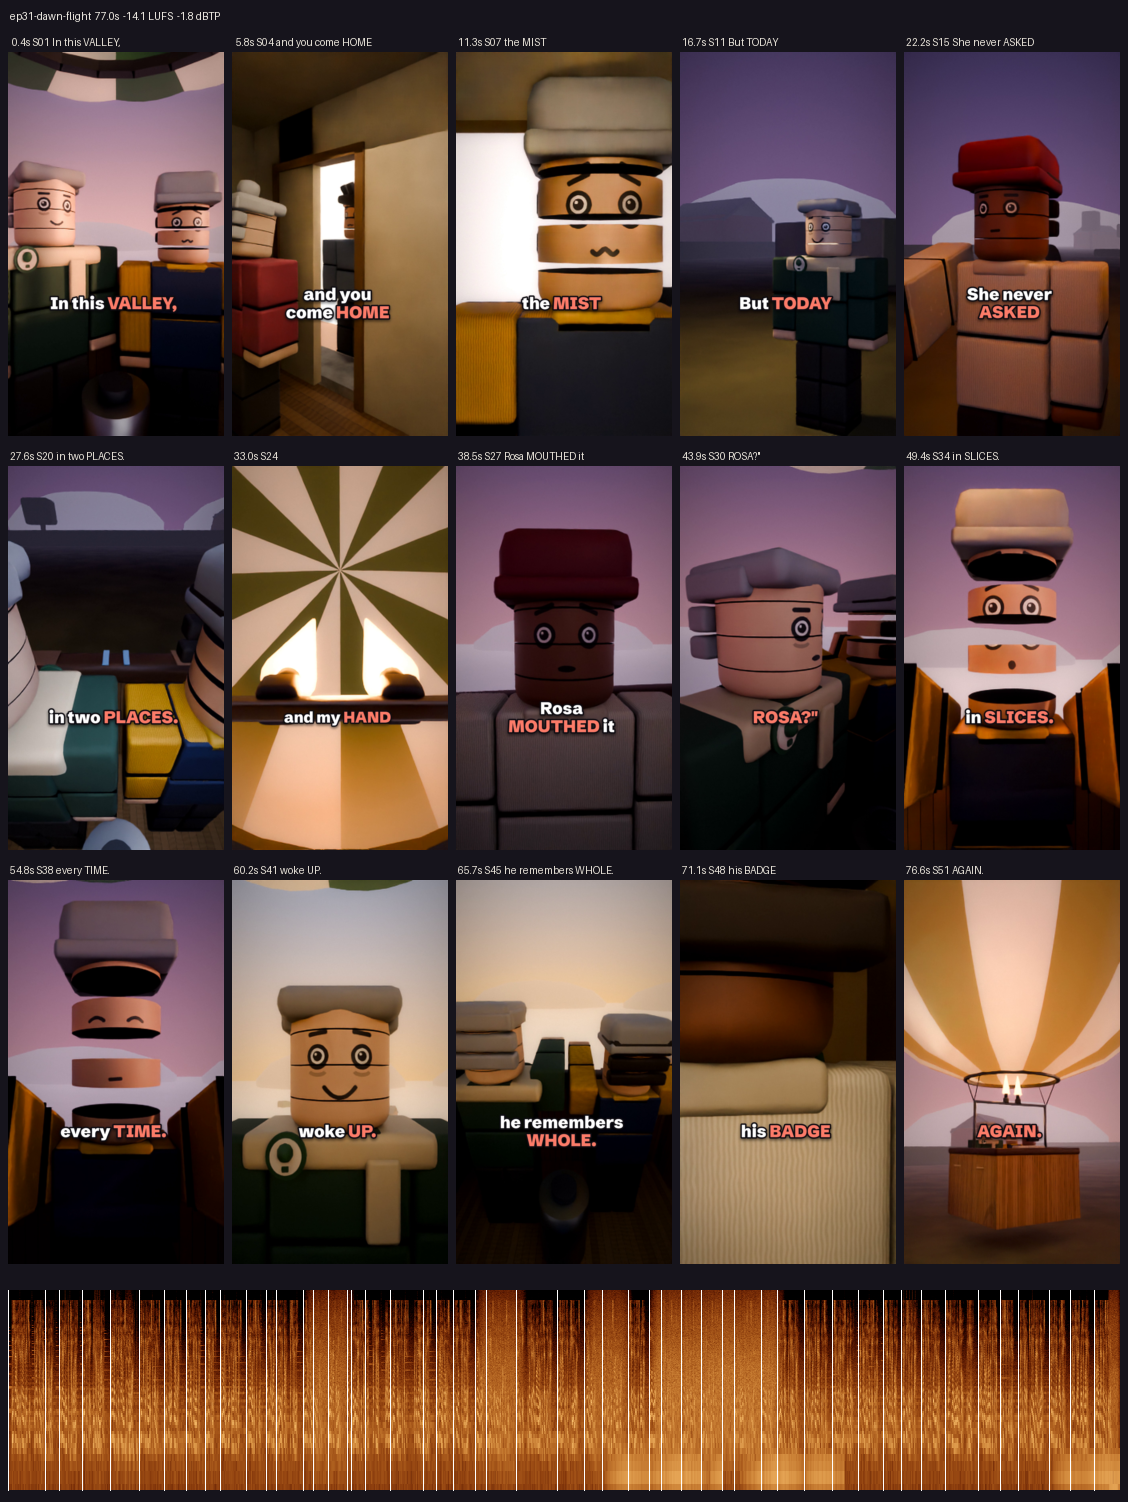
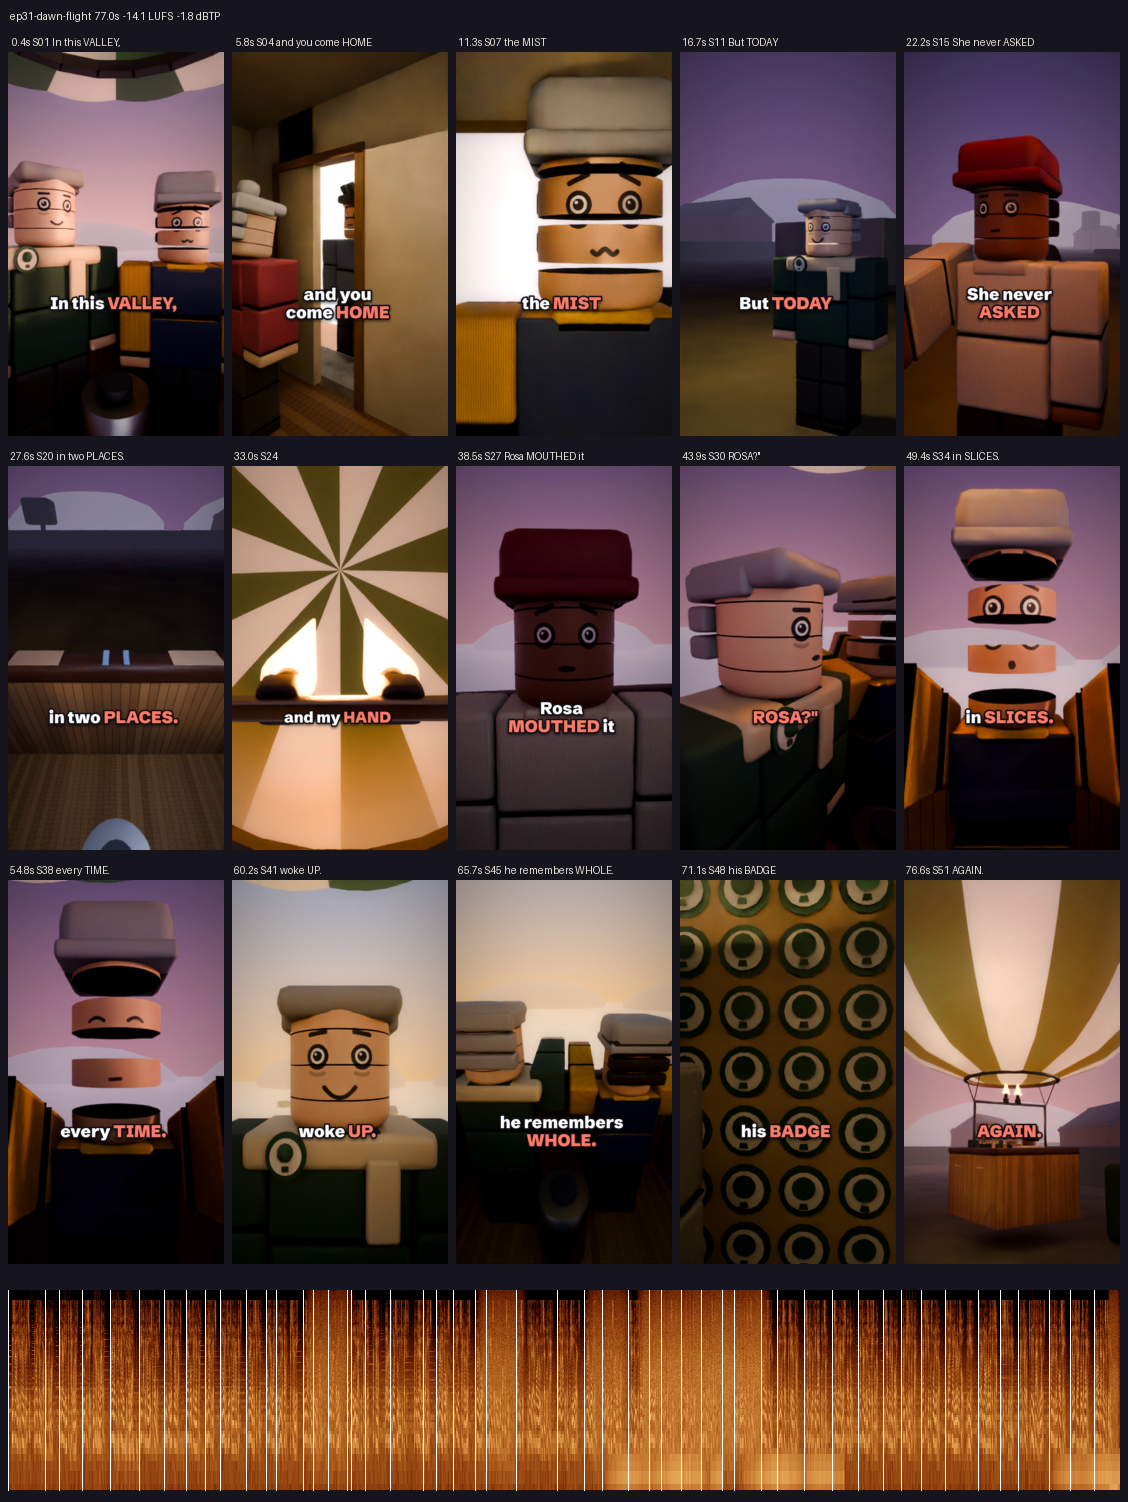
WIP ep31-dawn-flight: rescue round 5 (rim, badges, hedges)
Claude-Session: https://claude.ai/code/session_019n1tKFeMWK9CdVfVUvkVDN

diff --git a/stories/ep31-dawn-flight/set.py b/stories/ep31-dawn-flight/set.py
@@ -351,7 +351,7 @@ def new_materials(kit, ctx):
     M["wicker"] = kit.bricks("#b48a55", "#9a7243", "#3f2f1a", scale=7.0, name="wicker", rough=0.9, row=0.25, width=0.5,
                              grime_amt=0.25)
     M["leather"] = kit.plastic("#4a2e1e", 0.5, name="leather rim", spec=0.35)
-    M["worn"] = kit.plastic("#7a5a42", 0.55, name="worn leather", spec=0.3)
+    M["worn"] = kit.plastic("#b99877", 0.55, name="worn leather", spec=0.3)
     M["floor"] = kit.planks("#a07a48", "#80602f", scale=3.5, axis="Y", name="basket floor")
     M["steel"] = kit.metal("#6c7075", 0.4, name="steel")
     M["steel_dark"] = kit.plastic("#2a2d31", 0.5, name="steel dark")
@@ -412,6 +412,16 @@ def disc_mesh(kit, name, centres, r, y, mat, parent, n=14):
     return kit.mesh_obj(name, verts, fcs, mat, parent)
 
 
+def trap_mesh(kit, name, centres, hw_top, hw_bot, h, y, mat, parent):
+    """Many small flat trapezoids (the basket of the balloon glyph) facing -y in one object."""
+    verts, fcs = [], []
+    for (cx, cz) in centres:
+        b = len(verts)
+        verts += [(cx - hw_top, y, cz + h / 2), (cx + hw_top, y, cz + h / 2), (cx + hw_bot, y, cz - h / 2), (cx - hw_bot, y, cz - h / 2)]
+        fcs.append((b + 3, b + 2, b + 1, b))
+    return kit.mesh_obj(name, verts, fcs, mat, parent)
+
+
 def build_basket(kit, ctx, M):
     Vg = ctx["V"]
     kit.box("floor", (2 * HX + 0.02, 2 * HX + 0.02, 0.08), (0, 0, -0.04), M["floor"], Vg)
@@ -448,7 +458,7 @@ def build_basket(kit, ctx, M):
     # the two worn patches on the north rim, exactly under two hands, and the lore tally between them
     top = RIM_TOP + 0.0
     for i, px in enumerate(PATCH_X):
-        kit.box(f"worn{i}", (0.3, 0.17, 0.006), (px, RIM_Y, top + 0.004), M["worn"], Vg)
+        kit.box(f"worn{i}", (0.34, 0.17, 0.006), (px, RIM_Y, top + 0.004), M["worn"], Vg)
     for k, px in enumerate((-0.07, 0.07)):
         kit.box(f"tally{k}", (0.04, 0.17, 0.008), (px, RIM_Y, top + 0.005), M["tally"], Vg)
 
@@ -487,6 +497,19 @@ def build_landscape(kit, ctx, M):
         r = 330 + 40 * kit.hash01(k, 3)
         h = kit.sphere(f"hill{k}", 1.0, (r * math.cos(a), r * math.sin(a), 0), M["hill"], L, seg=14)
         h.scale = (95 + 30 * kit.hash01(k, 4), 70 + 30 * kit.hash01(k, 5), 42 + 12 * kit.hash01(k, 6))
+    # the near fields S23 sinks past: two barns and hedge lines that poke out of the mist (shown in that one shot only)
+    sk = kit.empty("sinkprops", (0, 0, 0), L)
+    ctx["sink"] = sk
+    for i, (p, rot) in enumerate([((27, -10), 25), ((44, 10), -20), ((20, 14), 70)]):
+        b = kit.empty(f"sbarn{i}", (p[0], p[1], 0), sk)
+        b.rotation_euler = (0, 0, math.radians(rot))
+        kit.box(f"sbarnw{i}", (10, 6.5, 4.2), (0, 0, 2.1), M["barn"], b, bevel=0.08)
+        for sy in (-1, 1):
+            kit.box(f"sbarnr{i}{sy}", (10.6, 4.1, 0.3), (0, sy * 1.55, 4.9), M["barn_roof"], b,
+                    rot=(sy * math.radians(-32), 0, 0), bevel=0.05)
+    for i, (p, rot, ln, h) in enumerate([((14, -22), 0, 30, 2.2), ((14, -2), 0, 24, 2.0), ((12, 8), 90, 24, 2.4),
+                                         ((38, -8), 90, 30, 2.1), ((26, -30), 0, 36, 2.3)]):
+        kit.box(f"shedge{i}", (ln, 1.3, h), (p[0], p[1], h / 2), M["hedge"], sk, rot=(0, 0, math.radians(rot)), bevel=0.2)
     # the launch field: a lamp on a pole, a trailer whose back doors stand open, a cold-air fan
     kit.cyl("lamppole", 0.07, 3.4, (-4.6, -3.6, 1.7), M["steel"], L, n=10)
     kit.box("lamphead", (0.5, 0.3, 0.14), (-4.6, -3.6, 3.45), M["steel_dark"], L, bevel=0.03)
@@ -567,28 +590,31 @@ def build_montage(kit, ctx, M):
     # --- the inside of Rosa's trailer: the back wall (y = 1.35) covered in identical balloon badges
     Z = kit.empty("Ztrailer", tuple(ZONES["trailer"]))
     ctx["T"] = Z
-    kit.box("t_floor", (2.3, 3.8, 0.1), (0, -0.55, -0.05), M["t_floor"], Z)
-    kit.box("t_ceil", (2.3, 3.8, 0.1), (0, -0.55, 2.55), M["t_wall"], Z)
-    kit.box("t_wallB", (2.3, 0.1, 2.6), (0, 1.4, 1.25), M["t_wall"], Z)
+    kit.box("t_floor", (4.3, 3.8, 0.1), (0, -0.55, -0.05), M["t_floor"], Z)
+    kit.box("t_ceil", (4.3, 3.8, 0.1), (0, -0.55, 2.55), M["t_wall"], Z)
+    kit.box("t_wallB", (4.3, 0.1, 2.6), (0, 1.4, 1.25), M["t_wall"], Z)
     for sx in (-1, 1):
-        kit.box(f"t_wallS{sx}", (0.1, 3.8, 2.6), (sx * 1.2, -0.55, 1.25), M["t_wall"], Z)
-    kit.box("t_wallF", (2.3, 0.1, 2.6), (0, -2.5, 1.25), M["t_wall"], Z)
+        kit.box(f"t_wallS{sx}", (0.1, 3.8, 2.6), (sx * 2.2, -0.55, 1.25), M["t_wall"], Z)
+    kit.box("t_wallF", (4.3, 0.1, 2.6), (0, -2.5, 1.25), M["t_wall"], Z)
     kit.cyl("t_cord", 0.008, 0.5, (0, 0.0, 2.3), M["steel_dark"], Z, n=6)
     kit.sphere("t_bulb", 0.07, (0, 0.0, 2.02), M["t_lamp"], Z, seg=10)
     cs = []
-    for j in range(1, 8):
-        for i in range(7):
-            if (i, j) == (6, 4):          # the empty cell where today's badge goes
+    for j in range(1, 13):
+        for i in range(21):
+            if (i, j) == (14, 6):         # the empty cell where today's badge goes (x 0.9, z 1.22)
                 continue
-            cs.append((-0.9 + i * 0.3, 0.02 + j * 0.3))
+            cs.append((-1.9 + i * 0.2, 0.02 + j * 0.2))
     yb = 1.35 - 0.012                      # each layer 1 cm proud of the one below, so nothing shares a plane
-    disc_mesh(kit, "badges_g", cs, 0.124, yb, M["b_green"], Z)
-    disc_mesh(kit, "badges_c", cs, 0.092, yb - 0.012, M["b_cream"], Z)
-    disc_mesh(kit, "badges_b", [(x, z + 0.02) for x, z in cs], 0.04, yb - 0.024, M["b_green"], Z, n=10)
-    new = [(0.9, 0.02 + 4 * 0.3)]
-    ctx["badge_new"] = [disc_mesh(kit, "badge_ng", new, 0.124, yb, M["b_green"], Z),
-                        disc_mesh(kit, "badge_nc", new, 0.092, yb - 0.012, M["b_cream"], Z),
-                        disc_mesh(kit, "badge_nb", [(0.9, new[0][1] + 0.02)], 0.04, yb - 0.024, M["b_green"], Z, n=10)]
+
+    def glyph(tag, cl):
+        # the same glyph as Dad's badge: green rim, cream face, a green balloon over a small basket
+        return [disc_mesh(kit, f"{tag}_g", cl, 0.088, yb, M["b_green"], Z),
+                disc_mesh(kit, f"{tag}_c", cl, 0.066, yb - 0.012, M["b_cream"], Z),
+                disc_mesh(kit, f"{tag}_b", [(x, z + 0.014) for x, z in cl], 0.04, yb - 0.024, M["b_green"], Z, n=12),
+                trap_mesh(kit, f"{tag}_k", [(x, z - 0.045) for x, z in cl], 0.012, 0.016, 0.02, yb - 0.03, M["b_green"], Z)]
+
+    glyph("badges", cs)
+    ctx["badge_new"] = glyph("badge_n", [(0.9, 1.22)])
 
 
 def build(kit, story, tl):
@@ -689,6 +715,7 @@ def animate(kit, story, tl, t, ctx):
     ang = math.radians(-88.0 * (1 - up))
     ctx["E"].matrix_basis = Matrix.Translation(PIVOT) @ Matrix.Rotation(ang, 4, "X")
     ctx["flames"].rotation_euler = (ang, 0, 0)
+    ctx["sink"].hide_render = spec["id"] != "S23"
     alt = _ease_value(_cues(tl, "alt"), "alt", t, 0.0)
     fld = _switch(_cues(tl, "field"), "f", t, 0)
     shift = -LAND_SHIFT if fld else V((0, 0, 0))

diff --git a/stories/ep31-dawn-flight/generator/make_story.py b/stories/ep31-dawn-flight/generator/make_story.py
@@ -193,7 +193,7 @@ SHOTS = [
      c([0, [-7.5, -10.0, 2.0], [0.0, 0.0, 3.0], 20], [1, [-7.5, -10.0, 2.0], [0.0, 0.0, 4.2], 20]), 2, {"frame": "world"}),
     # 03 loose
     ("L18", "the fields sinking under the mist",
-     c([0, [0.5, -1.5, 2.0], [30, -14, 0.0], 24], [1, [0.5, -1.5, 2.0], [30, -14, -3.5], 24]), 2, {"key": 0}),
+     c([0, [0.5, -1.5, 2.0], [24, -8, 1.0], 24], [1, [0.5, -1.5, 2.0], [24, -8, -1.2], 24]), 2, {"key": 25, "dsun": 6.0}),
     ("L19", "the burner roars", FLAME, 2, {"key": 0}),
     ("L19.1", "my sleeve: the hand block slides a finger's width off",
      view([1.12, 0.02, 1.62], [ME[0] + 0.2, 1.08, 1.4], 0.7), 2, {"key": 12}),
@@ -242,7 +242,7 @@ SHOTS = [
     ("L38.3", "the landing in the stubble field",
      view([-9.0, -8.0, 1.2], [0.0, 0.0, 1.9], 6.0), 2, {"frame": "world"}),
     ("L39", "Rosa's sleeve pinning today's badge on the wall inside the trailer",
-     view([TRAILER[0] + 0.55, -0.2, K0 + 1.3], [TRAILER[0] + 0.9, 1.3, K0 + 1.22], 0.6), 2,
+     view([TRAILER[0] + 1.0, -0.2, K0 + 1.3], [TRAILER[0] + 0.85, 1.3, K0 + 1.22], 0.7), 2,
      {"room": "trailer", "frame": "world", "key": 8}),
     ("L40", "pull back: the whole wall covered in identical balloon badges",
      push([TRAILER[0] + 0.55, -0.2, K0 + 1.3], [TRAILER[0], -2.1, K0 + 1.28], [TRAILER[0] + 0.9, 1.3, K0 + 1.22], [TRAILER[0], 1.3, K0 + 1.25], 0.6, 2.1), 2,
@@ -316,7 +316,9 @@ put("me", "L09", [-0.95, 0.0, K0], yaw=90, expr="worried")
 hide("me", "L10")
 put("me", "L11.2", [-0.2, -3.0, FG], yaw=180, expr="worried")
 put("me", "L14", p3(ME), yaw=0, expr="worried", arms=[0, 0])
-key("me", "L16.2", yaw=180, arms=[ARM_ME, ARM_ME], blend=0.5)
+hide("me", "L15.1")                      # S20 opens on the empty rim: both patches and the tally in plain view
+put("me", "L16.2", p3(ME), yaw=180, expr="worried")
+key("me", "L16.2+0.55", arms=[ARM_ME, ARM_ME], blend=0.5)
 key("me", "L19.1", expr="worried")
 key("me", "L23", expr="worried")
 key("me", "L25.1", expr="scared", blend=0.3)
@@ -348,7 +350,9 @@ key("dad", "L14.1", arms=[0, 0], blend=0.1)
 key("dad", "L14.3", expr="delighted", yaw=14)
 talk("dad", "L14.4", "L14>")
 key("dad", "L15.1", yaw=180, arms=[0, 0], expr="smile", blend=0.0)
-key("dad", "L16.2", arms=[ARM_DAD, ARM_DAD], blend=0.5)
+hide("dad", "L15.1")
+put("dad", "L16.2", p3(DAD), yaw=180, expr="smile")
+key("dad", "L16.2+0.55", arms=[ARM_DAD, ARM_DAD], blend=0.5)
 key("dad", "L20", yaw=150, expr="delighted", arms=[ARM_DAD - 8, 80], blend=0.0)
 talk("dad", "L20.4", "L20>")
 key("dad", "L21", yaw=180, arms=[ARM_DAD, ARM_DAD], expr="delighted", blend=0.0)
@@ -379,7 +383,7 @@ key("rosa", "L22", yaw=180, expr="neutral", blend=0.3)
 key("rosa", "L24", head=[0, 24], blend=0.3)
 key("rosa", "L31", head=[0, 0], blend=0.3)
 key("rosa", "L38", yaw=170, expr="sad-smile", blend=0.0)
-put("rosa", "L39", [TRAILER[0] + 0.62, 0.58, TRAILER[2]], yaw=180, expr="sad-smile", arms=[0, 96])
+put("rosa", "L39", [TRAILER[0] + 0.3, 0.62, TRAILER[2]], yaw=180, expr="sad-smile", arms=[0, 96])
 hide("rosa", "L40")
 put("rosa", "L41", [-0.2, -2.1, FG], yaw=90, expr="neutral")
 walk("rosa", "L41>", [1.8, -2.1, FG])
@@ -443,8 +447,8 @@ cue("L41", "env", up=1.0, dur=0)
 cue("L12", "roar", peak=0.8, up=1.0, hold=1.2, down=0.9)
 cue("L19", "roar", peak=1.0, up=0.6, hold=1.2, down=0.9)
 cue("L22", "roar", peak=0.9, up=0.6, hold=1.2, down=0.9)
-cue("L25", "roar", peak=1.0, up=0.8, hold=6.6, down=1.2)
-cue("end-0.85", "roar", peak=0.45, up=0.25, hold=0.05, down=0.5)
+cue("L25-0.9", "roar", peak=0.6, up=1.0, hold=6.6, down=1.2)
+cue("end-0.85", "roar", peak=0.25, up=0.25, hold=0.05, down=0.5)
 # the seams (cm). Everyone else stays at their hairline.
 seam("me", 0, 2.5)
 seam("me", "L19", 2.5, hand=5.0, dur=0.8)
@@ -472,7 +476,7 @@ sfx = [
     {"at": "L12", "kind": "burner", "db": -15, "dur": 3.6},
     {"at": "L19", "kind": "burner", "db": -14, "dur": 3.6, "seed": 2},
     {"at": "L22", "kind": "burner", "db": -14, "dur": 3.4, "seed": 3},
-    {"at": "L25", "kind": "burner", "db": -9, "dur": 9.4, "keep": True},
+    {"at": "L25-0.9", "kind": "burner", "db": -9, "dur": 9.4, "keep": True},
     {"at": "end-0.85", "kind": "burner", "db": -18, "dur": 0.85, "fall": 7.0},
     {"at": "L02.1", "kind": "click", "db": -10},
     {"at": "L02.2", "kind": "latch", "db": -16},
